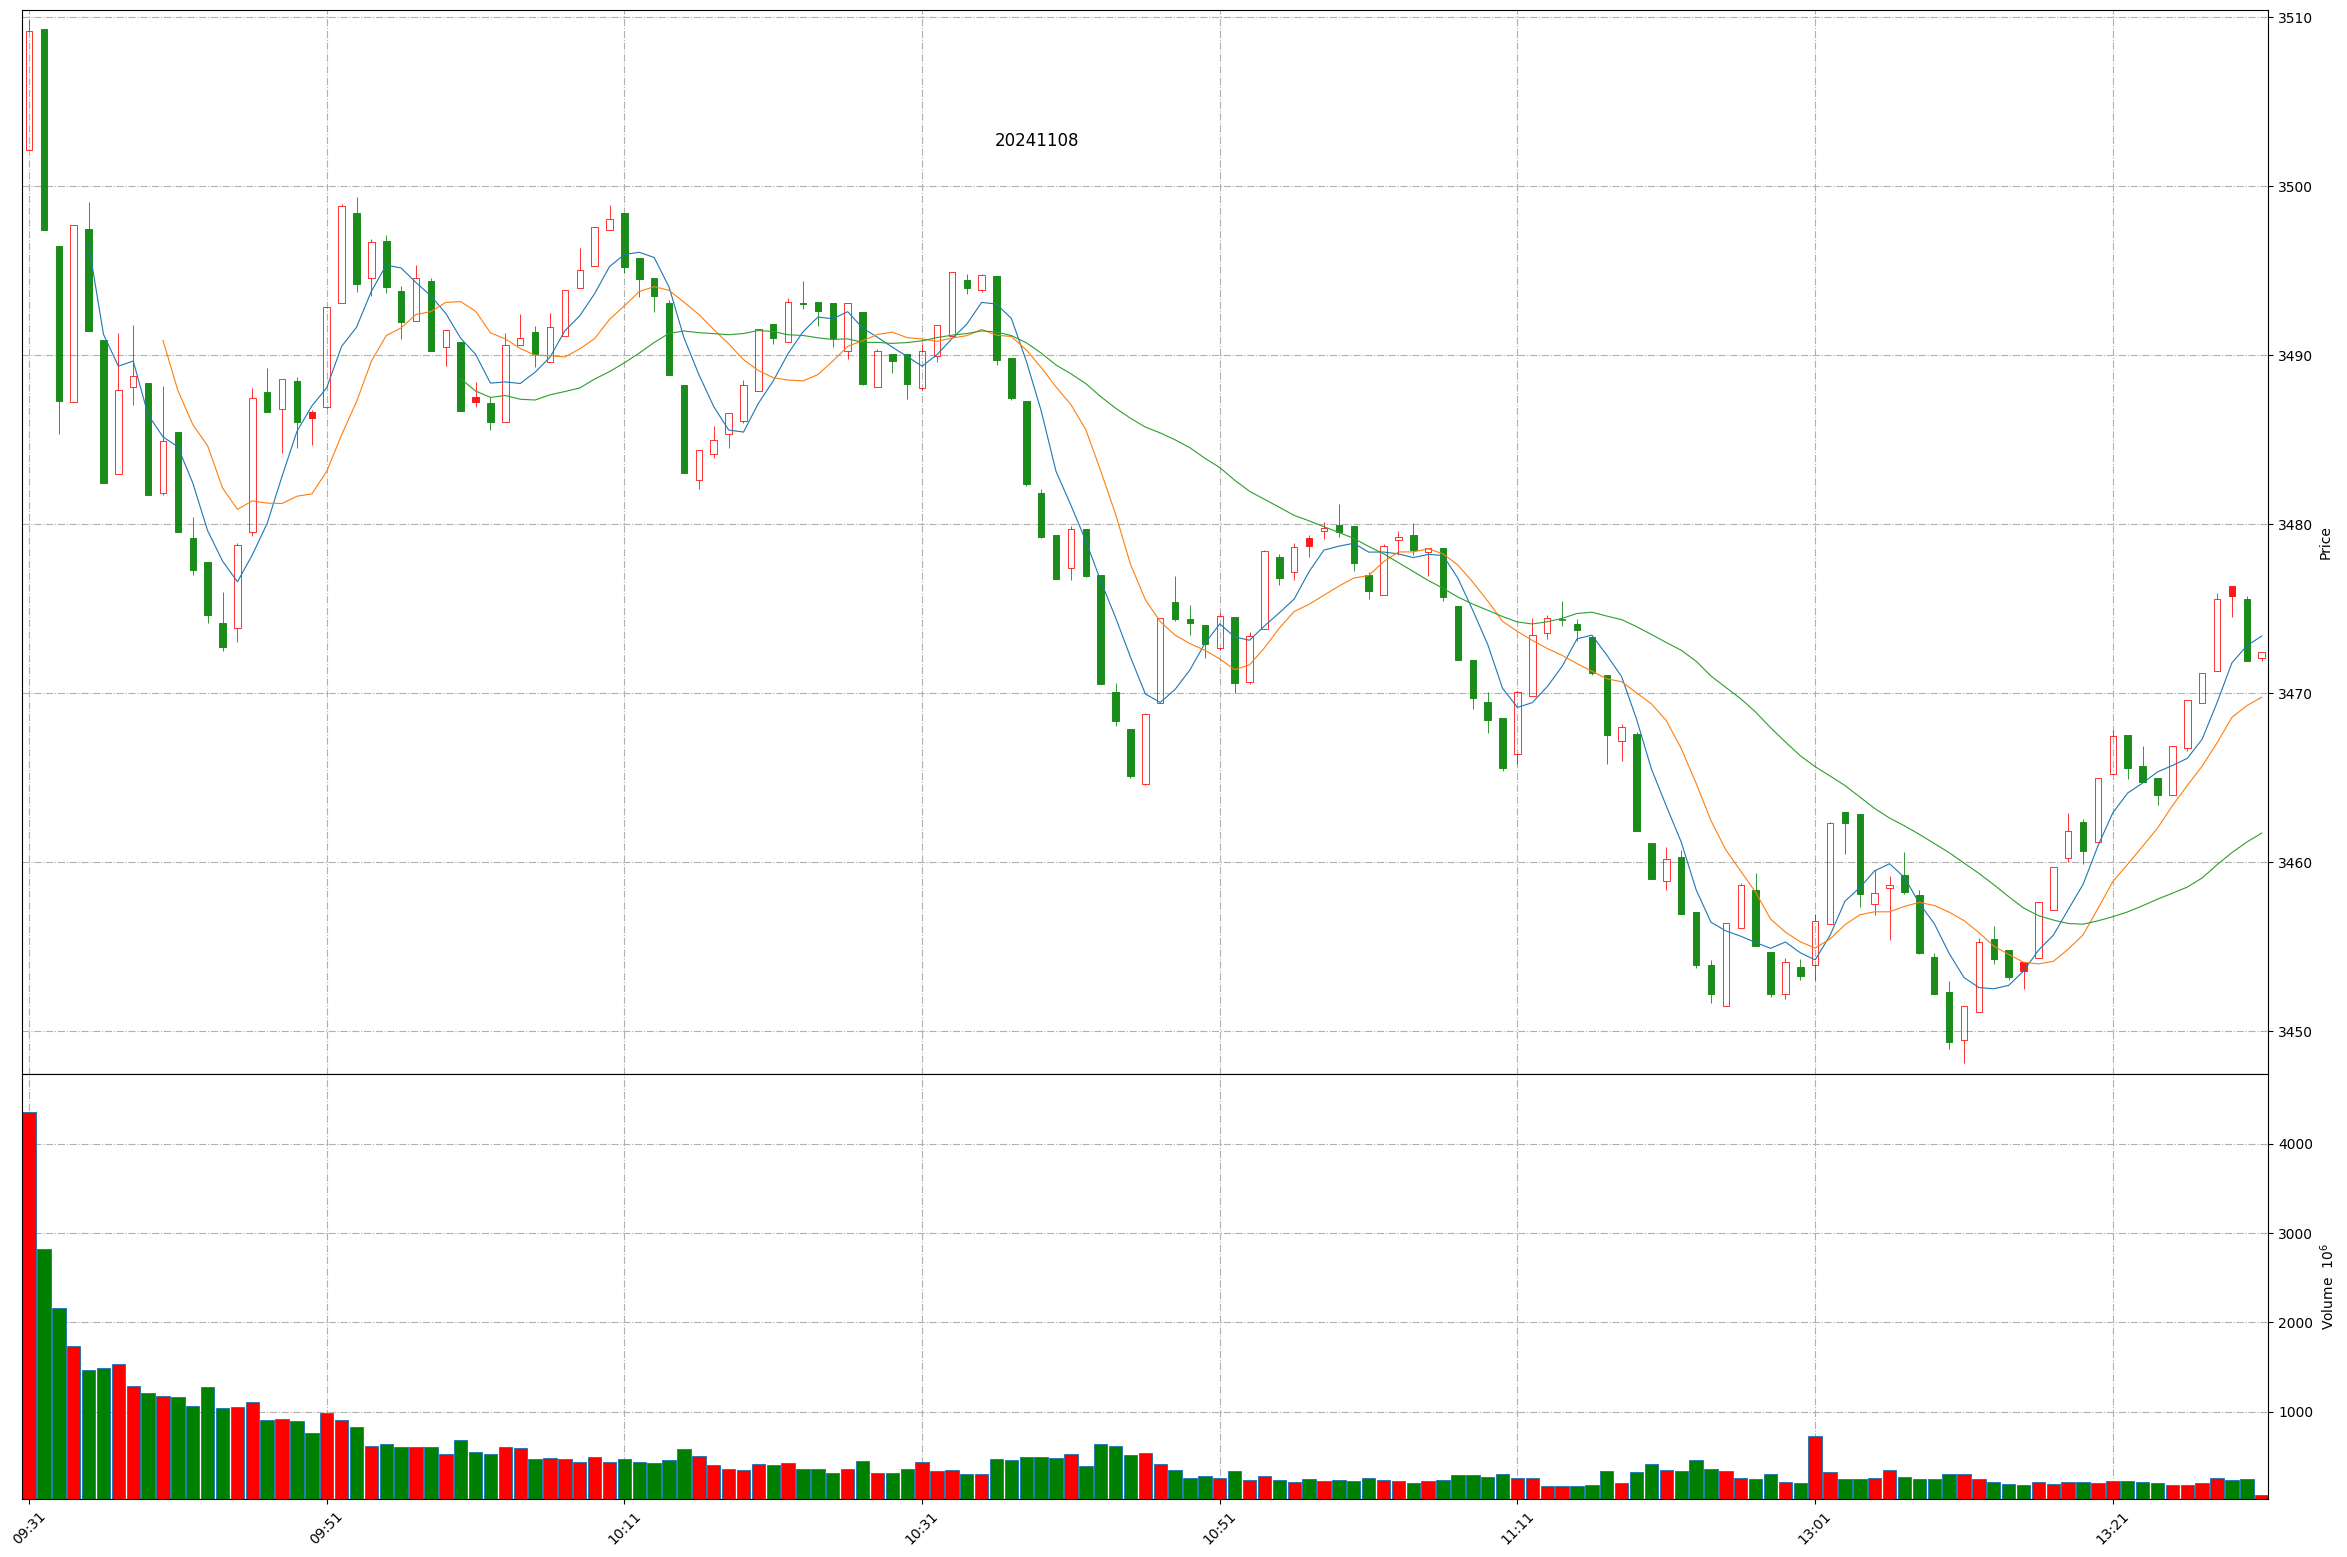
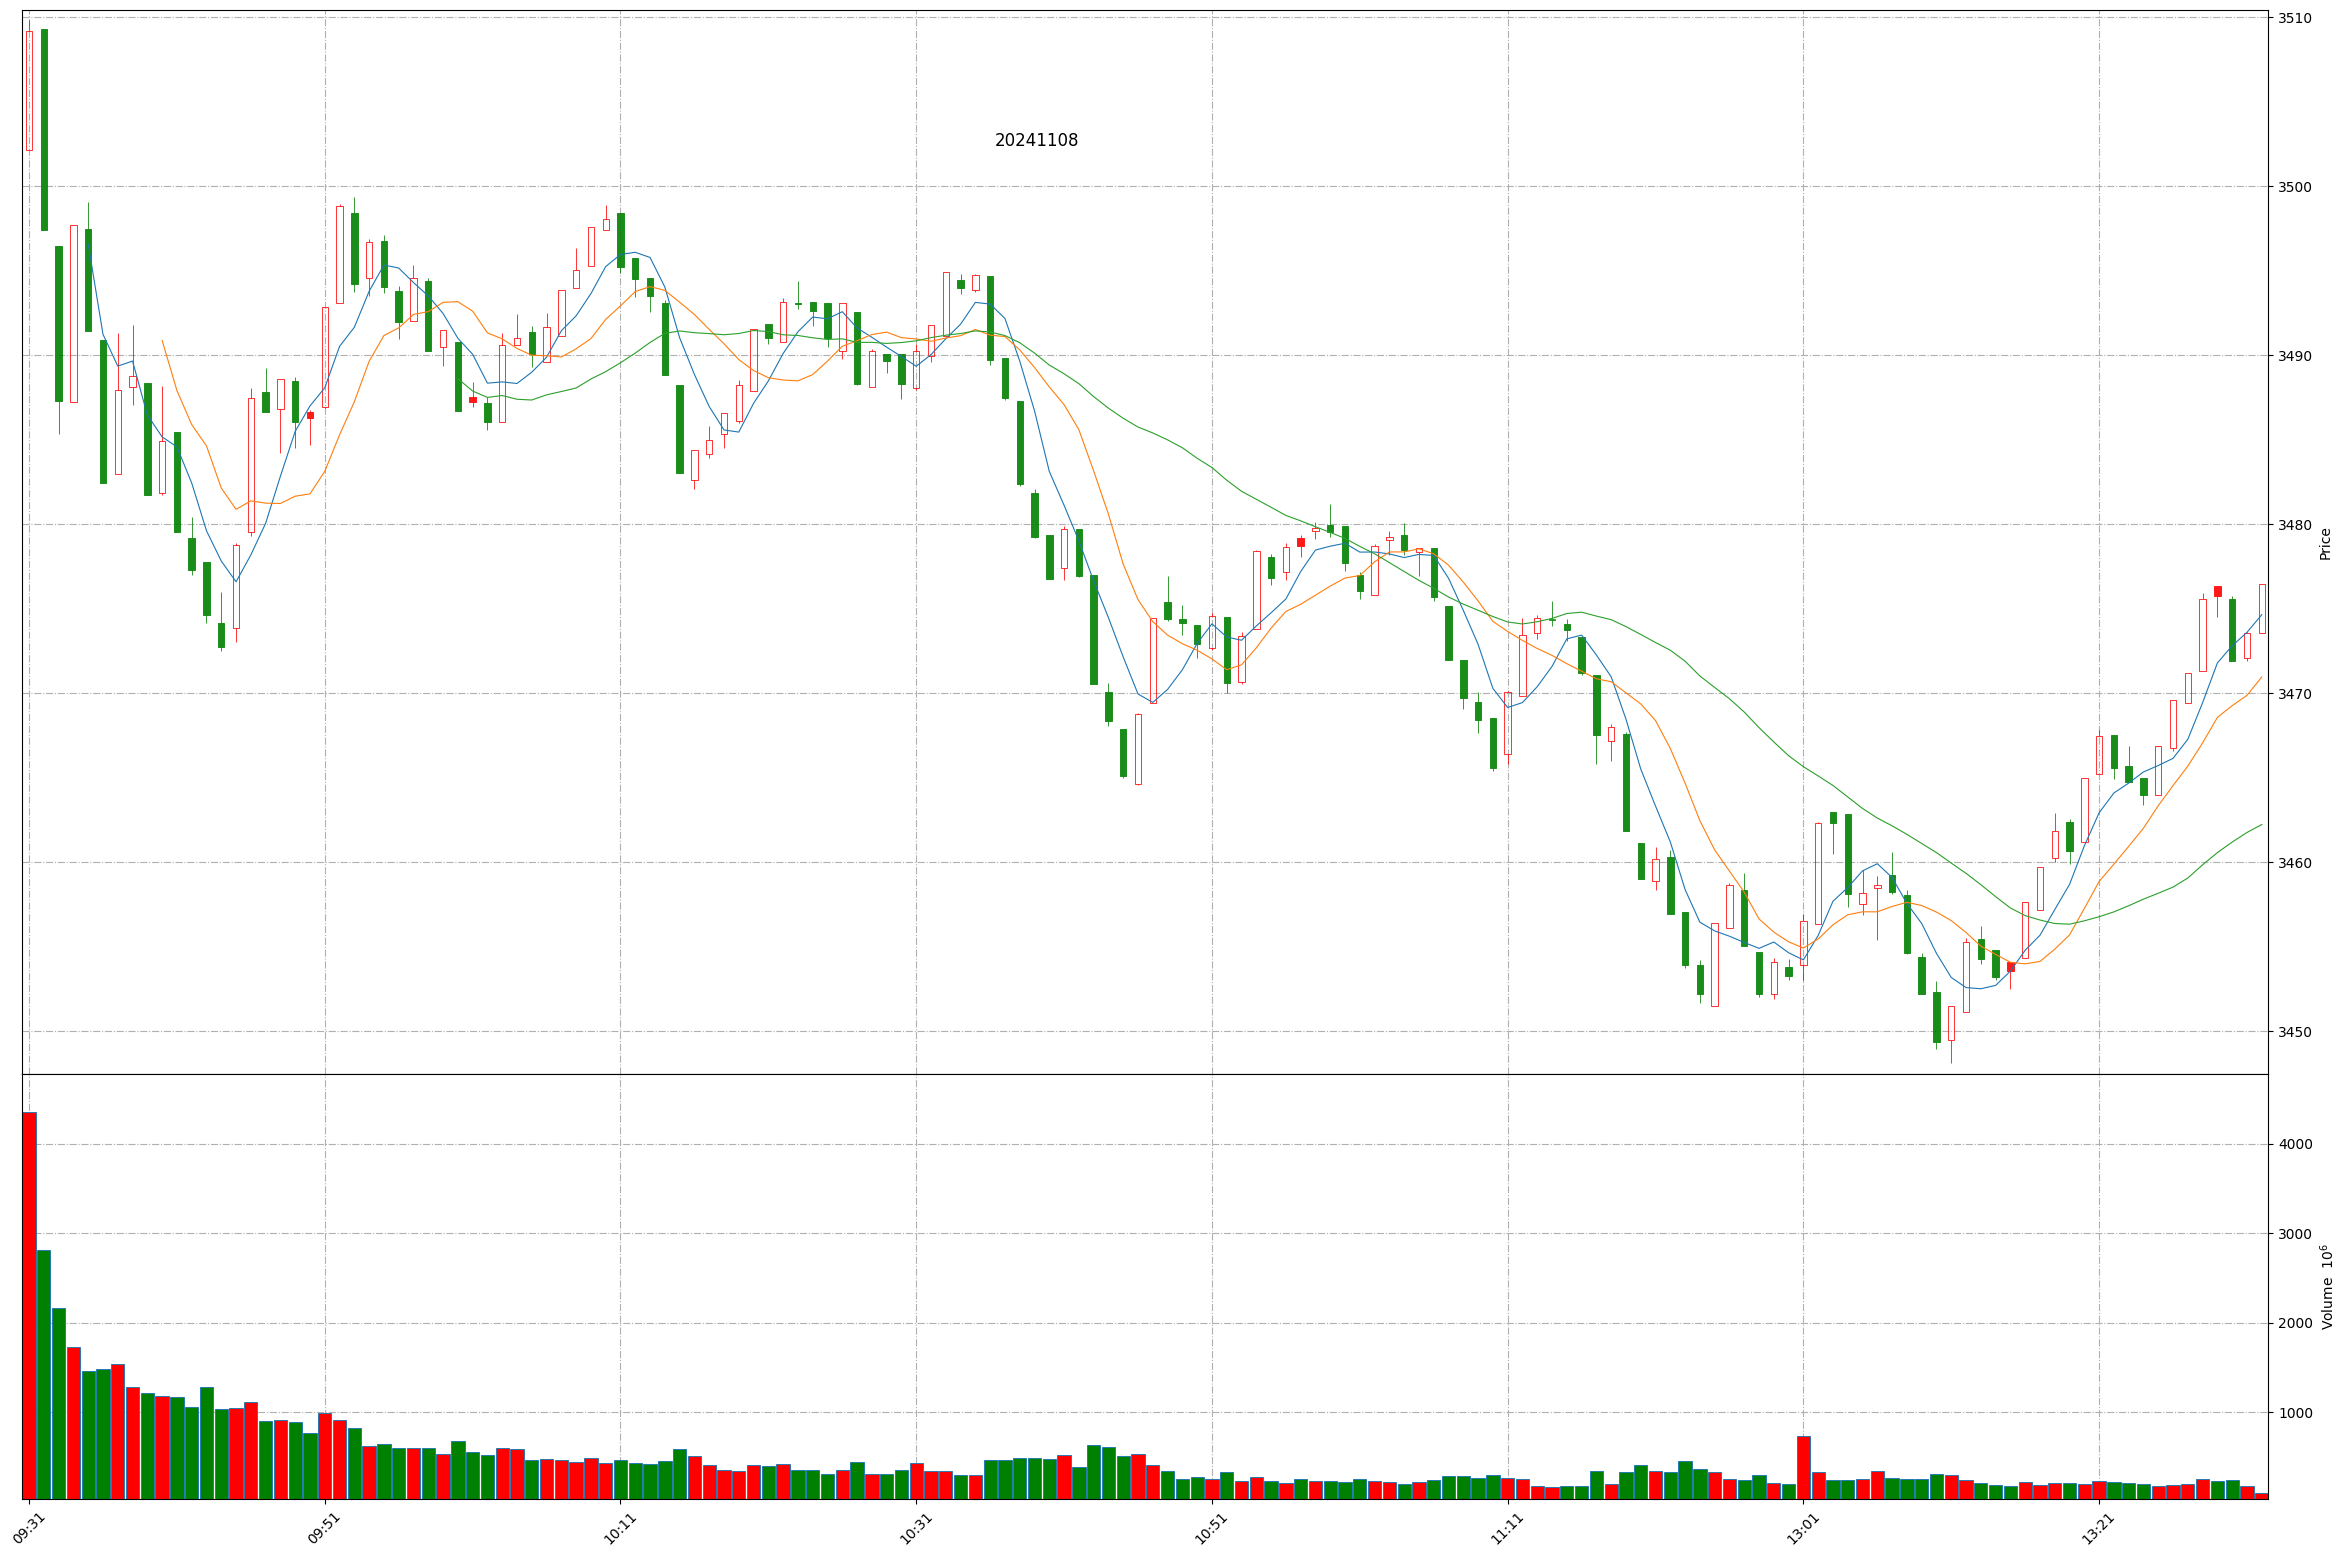
Github action update at 2024-11-08 13:31:49.

diff --git a/README.md b/README.md
@@ -1,11 +1,11 @@
 
 # Daily-A-share-market-quotes 每日 A 股指数（5min 更新）- 20241108
 
-### 上证指数 20241108 13:30
+### 上证指数 20241108 13:31
 ![](./fig/2024/11/20241108-sh000001.png)
 
-### 深证成指 20241108 13:30
+### 深证成指 20241108 13:31
 ![](./fig/2024/11/20241108-sz399001.png)
 
-### 北证50 20241108 13:30
+### 北证50 20241108 13:31
 ![](./fig/2024/11/20241108-bj899050.png)
